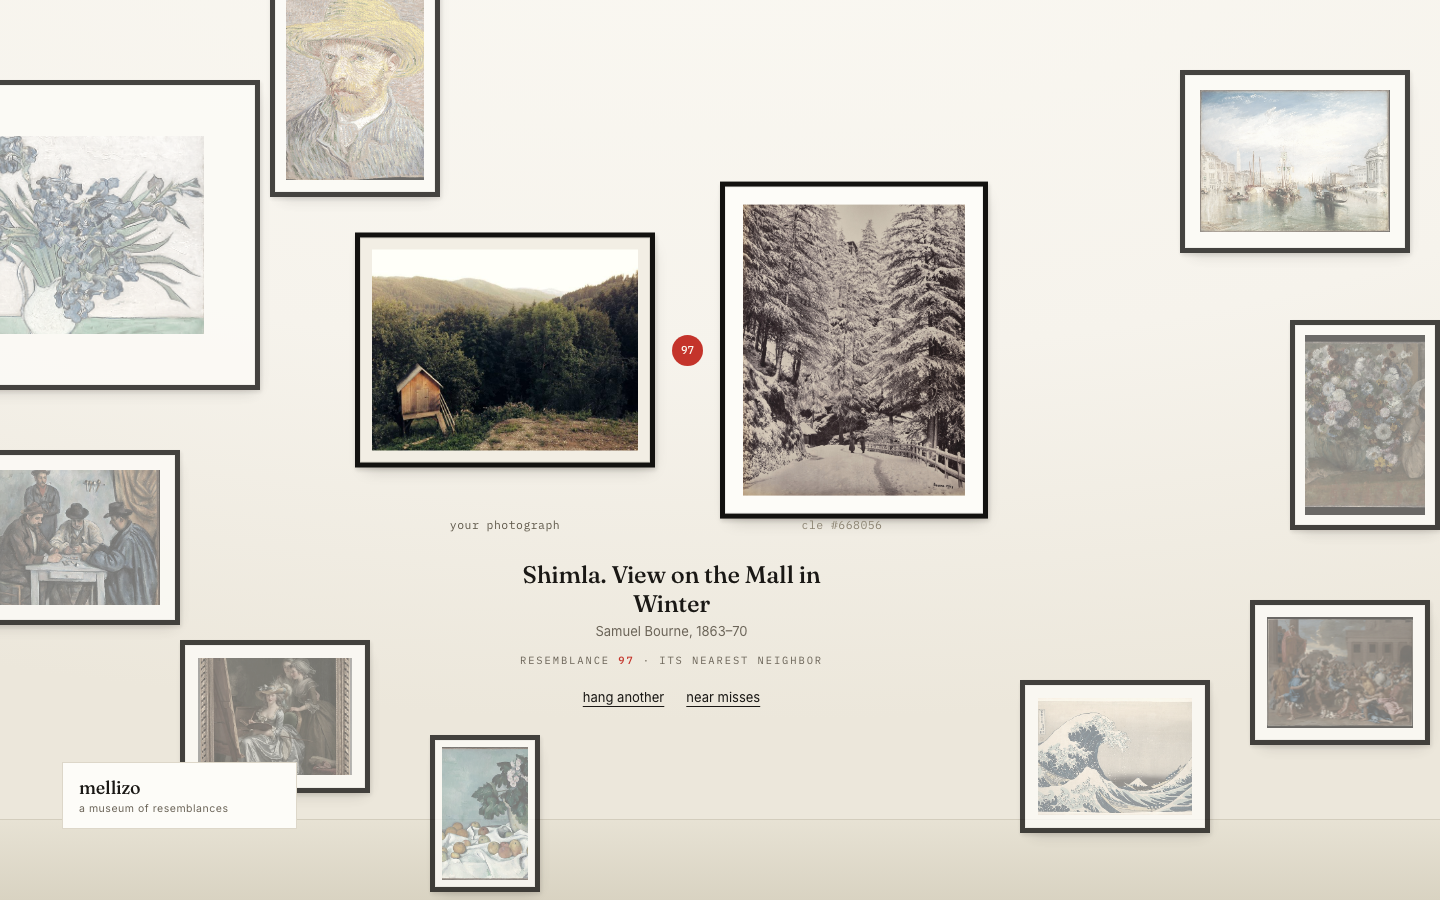
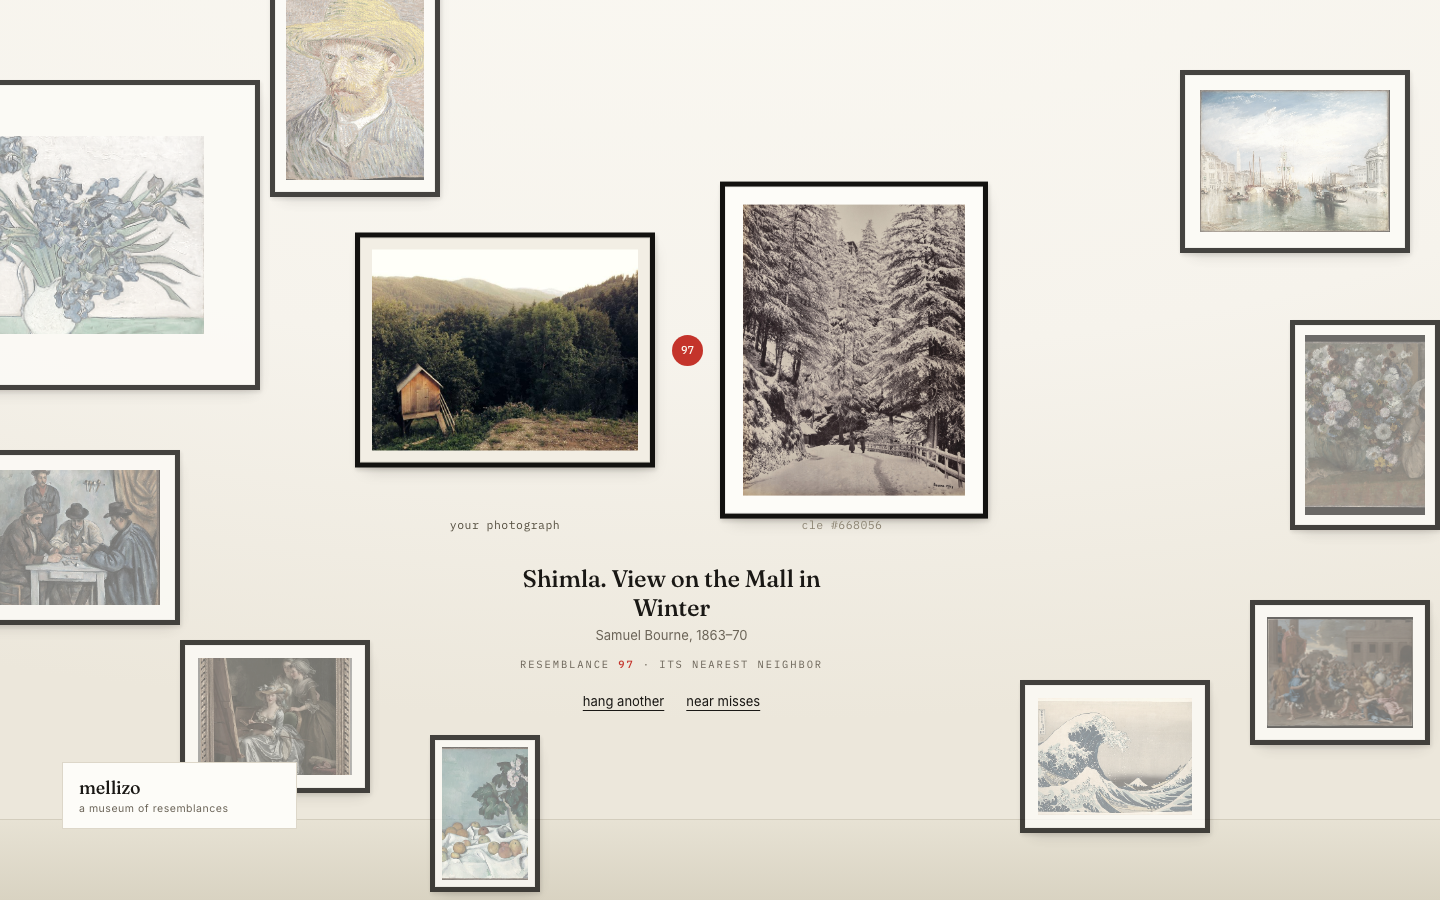
Design round 7: anchored caption slot, deep-dim strip mode, swap ring pulse

Changed region(s): [[0.3438, 0.6222, 0.5625, 0.8089]]

diff --git a/src/styles.css b/src/styles.css
@@ -68,7 +68,7 @@ body {
 .frame .accn {
   position: absolute; top: calc(100% + 7px); left: 50%; transform: translateX(-50%);
   font-family: "IBM Plex Mono", monospace; font-size: 11.5px; letter-spacing: .04em;
-  color: #5f584a; white-space: nowrap; opacity: 0; transition: opacity .25s;
+  color: #544e3f; white-space: nowrap; opacity: 0; transition: opacity .25s;
 }
 .frame.pair .accn, .frame.twin .accn { opacity: 1; }
 @media (hover: hover) { .frame:hover .accn { opacity: 1; } }
@@ -120,7 +120,7 @@ button.frame:disabled { cursor: default; }
 
 /* ---------- vinyl ---------- */
 .vinyl { position: absolute; transition: opacity .45s ease; }
-.vinyl.off { opacity: 0; pointer-events: none; }
+.vinyl.off { opacity: 0; pointer-events: none; transition-duration: .25s; }
 .vinyl h1 { font-family: "Fraunces", serif; font-weight: 400; font-size: 44px; line-height: 1.04; letter-spacing: -0.015em; color: var(--ink); }
 .vinyl h1 em { font-style: italic; font-weight: 300; }
 .vinyl .sub { margin-top: 16px; font-size: 14px; line-height: 1.55; color: var(--ink-soft); max-width: 330px; }
@@ -180,9 +180,18 @@ button.frame:disabled { cursor: default; }
 .phase-result .mark { transition-delay: 1.15s; }
 .phase-result .caption { transition-delay: 1.3s; }
 .phase-busy .frame.twin, .phase-busy .mark, .phase-busy .caption { transition-delay: 0s; }
-/* a swapped candidate arrives through a soft focus pull */
+/* a swapped candidate arrives through a soft focus pull + a brief ring pulse */
 .frame.twin .mat img { animation: twinIn .5s ease; }
 @keyframes twinIn { from { opacity: 0; filter: saturate(.5) blur(2px); } }
+.frame.twin .flashring {
+  position: absolute; inset: -4px; pointer-events: none;
+  box-shadow: 0 0 0 2px var(--red);
+  animation: ringOut .9s ease forwards;
+}
+@keyframes ringOut { from { opacity: 1; } to { opacity: 0; } }
+/* opening the picker dims the room further so the strip reads as a tool */
+.strip-open .frame:not(.reserved):not(.twin):not(.gone) { opacity: .32; }
+.strip-open .frame:not(.reserved):not(.twin):not(.gone) img { filter: saturate(.3) brightness(1.14); opacity: .55; }
 
 /* ---------- resemblance mark ---------- */
 .mark {

diff --git a/src/App.tsx b/src/App.tsx
@@ -49,6 +49,7 @@ export default function App() {
   const clipReady = useRef(false);
   const stageRef = useRef<"read" | "model" | "embed" | "search">("read");
   const [limited, setLimited] = useState(false);
+  const [swappedAt, setSwappedAt] = useState(0);
   const swapRef = useRef(0);
 
   const result = phase === "result";
@@ -185,6 +186,7 @@ export default function App() {
         setRunners(rs => [prev, ...rs.filter(x => x.id !== r.id && x.id !== prev.id)]);
         return r;
       });
+      setSwappedAt(Date.now());
       haptics.trigger("light");
     };
     t.src = r.img;
@@ -206,7 +208,8 @@ export default function App() {
   const ax = mobile ? 200 : 720;
   const pairCx = (px + ax + awEff) / 2;
   const pairBottom = Math.max(pTop + ph, aTop + ah);
-  const capTop = pairBottom + (mobile ? 30 : 52);
+  // caption anchors to a fixed slot so swapping artworks never moves the controls
+  const capTop = Math.max(pairBottom, seamY + (mobile ? 112 : 170)) + (mobile ? 30 : 44);
   const capLeft = mobile
     ? Math.min(Math.max(pairCx - 150, 10), 375 - 310)
     : pairCx - 185;
@@ -237,7 +240,7 @@ export default function App() {
 
   return (
     <div
-      className={`room${drag ? " drag" : ""} phase-${phase}`}
+      className={`room${drag ? " drag" : ""} phase-${phase}${showRunners && result ? " strip-open" : ""}`}
       onDragOver={e => { e.preventDefault(); setDrag(true); }}
       onDragLeave={() => setDrag(false)}
       onDrop={e => { e.preventDefault(); setDrag(false); handleFile(e.dataTransfer.files?.[0]); }}
@@ -299,6 +302,7 @@ export default function App() {
             <div className="mat">
               {match && <img key={match.id} src={match.img} alt={match.title} />}
             </div>
+            {swappedAt > 0 && <div className="flashring" key={swappedAt} />}
           </div>
           {match?.objectUrl
             ? <a className="accn link" href={match.objectUrl} target="_blank" rel="noreferrer" tabIndex={result ? 0 : -1}
